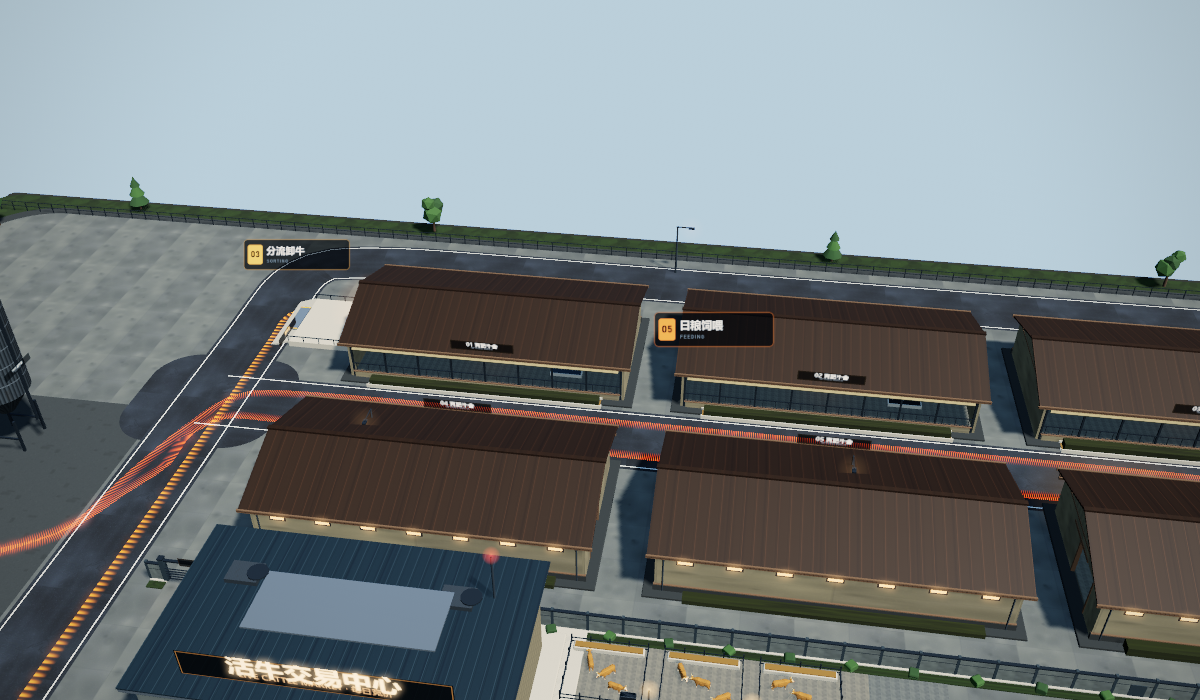
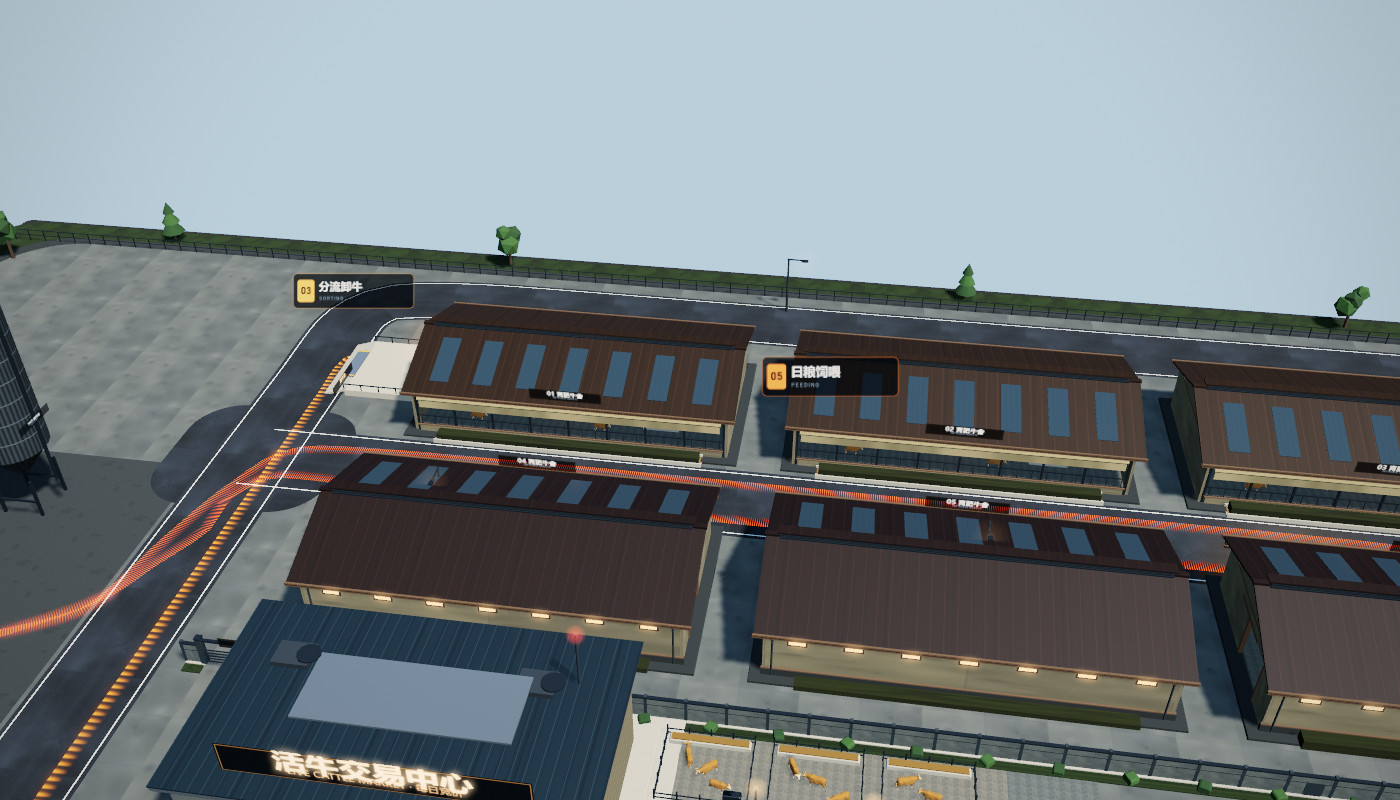
feat: 牛舍剖视 + 真实牧场方向（地面分区、草带、黄昏起跑、舍内屋架与垫料）
- 牛舍屋顶独立成组，默认收起（R 键 / 右上角按钮切换，?roof=1 保留屋顶）
- 舍内补屋架、中间走道、两侧垫料与牛，剖视时能看清栏内
- 场地分区：六栋牛舍所在条带铺压实土、日粮道压回混凝土，园区草带加宽
- 开户即从下午 15:24 起跑，很快进入黄昏；黄昏主光加强、曝光提高

diff --git a/js/buildings.js b/js/buildings.js
@@ -155,7 +155,8 @@
     };
   }
 
-  function buildBarn(kit, M, world, b) {
+  function buildBarn(kit, M, world, b, roofKit) {
+    const rk = roofKit || kit;
     const cx = b.cx, cz = b.cz, len = b.len, dep = b.dep;
     const mir = !!b.mirror;
     // 非几何挂件（标签/光片/光斑）不在 kit 里，需要自己按镜像位摆放
@@ -208,25 +209,25 @@
     const rise = ridge - eave;
     const slopeLen = Math.hypot(slopeH, rise) + 0.25;
     const ang = Math.atan2(rise, slopeH);
-    U.box(kit, roofMat, len + 1.8, 0.22, slopeLen, cx, (eave + ridge) / 2, cz + slopeH / 2, ang, 0, 0);
-    U.box(kit, roofMat, len + 1.8, 0.22, slopeLen, cx, (eave + ridge) / 2, cz - slopeH / 2, -ang, 0, 0);
-    U.box(kit, roofMat, len + 2.0, 0.3, 0.62, cx, ridge + 0.12, cz, 0, 0, 0);
+    U.box(rk, roofMat, len + 1.8, 0.22, slopeLen, cx, (eave + ridge) / 2, cz + slopeH / 2, ang, 0, 0);
+    U.box(rk, roofMat, len + 1.8, 0.22, slopeLen, cx, (eave + ridge) / 2, cz - slopeH / 2, -ang, 0, 0);
+    U.box(rk, roofMat, len + 2.0, 0.3, 0.62, cx, ridge + 0.12, cz, 0, 0, 0);
     // 屋脊通风器：抬高的百叶脊
-    U.box(kit, M.galv, len - 1.2, 0.62, 1.06, cx, ridge + 0.45, cz, 0, 0, 0, 0.06);
-    U.box(kit, M.steel, len - 1.0, 0.12, 1.22, cx, ridge + 0.13, cz);
+    U.box(rk, M.galv, len - 1.2, 0.62, 1.06, cx, ridge + 0.45, cz, 0, 0, 0, 0.06);
+    U.box(rk, M.steel, len - 1.0, 0.12, 1.22, cx, ridge + 0.13, cz);
     for (let s2 = 0; s2 < 3; s2++) {
-      U.box(kit, M.steel, len - 1.5, 0.07, 0.07, cx, ridge + 0.30 + s2 * 0.15, cz + 0.5);
-      U.box(kit, M.steel, len - 1.5, 0.07, 0.07, cx, ridge + 0.30 + s2 * 0.15, cz - 0.5);
+      U.box(rk, M.steel, len - 1.5, 0.07, 0.07, cx, ridge + 0.30 + s2 * 0.15, cz + 0.5);
+      U.box(rk, M.steel, len - 1.5, 0.07, 0.07, cx, ridge + 0.30 + s2 * 0.15, cz - 0.5);
     }
-    U.box(kit, roofMat, len - 0.5, 0.15, 1.28, cx, ridge + 0.80, cz);
+    U.box(rk, roofMat, len - 0.5, 0.15, 1.28, cx, ridge + 0.80, cz);
     // 采光带：南坡每跨一条
     for (let s3 = 0; s3 < 7; s3++) {
       const sx = cx - halfL + 3.4 + s3 * ((len - 6.8) / 6);
-      U.box(kit, M.skylight, 2.4, 0.1, slopeLen * 0.60, sx, (eave + ridge) / 2 + 0.12, cz + slopeH / 2, ang, 0, 0);
+      U.box(rk, M.skylight, 2.4, 0.1, slopeLen * 0.60, sx, (eave + ridge) / 2 + 0.12, cz + slopeH / 2, ang, 0, 0);
     }
     // 檐口
-    U.box(kit, M.timber, len + 2.0, 0.4, 0.22, cx, eave + 0.04, zf + o + 0.02);
-    U.box(kit, M.timber, len + 2.0, 0.4, 0.22, cx, eave + 0.04, zb - o - 0.02);
+    U.box(rk, M.timber, len + 2.0, 0.4, 0.22, cx, eave + 0.04, zf + o + 0.02);
+    U.box(rk, M.timber, len + 2.0, 0.4, 0.22, cx, eave + 0.04, zb - o - 0.02);
     // 檐下暖光槽
     U.box(kit, M.warmGlow, len - 2, 0.06, 0.1, cx, eave - 0.35, zf + 0.18, 0, 0, 0);
 
@@ -280,6 +281,17 @@
       kit.add(bulb, M.lamp, U.mat4(lx, 5.42, cz, 0, 0, 0));
       glowSprite(world, 0xffc180, 3.4, mx(lx), 5.35, cz, 0.4);
     }
+    // 舍内屋架：剖视时露出来的结构
+    for (let t = 0; t <= 6; t++) {
+      const tx = cx - halfL + 1.6 + t * ((len - 3.2) / 6);
+      U.box(kit, M.steel, 0.14, (ridge - eave) * 0.55, 0.14, tx, eave + (ridge - eave) * 0.28, cz, 0, 0, 0);
+      U.box(kit, M.steel, 0.14, 0.14, dep - 1.2, tx, eave + 0.1, cz);
+      U.box(kit, M.timber, 0.12, 0.16, dep - 1.4, tx, eave + 0.26, cz);
+    }
+    // 舍内地面：中间走道 + 两侧垫料
+    U.box(kit, M.penPad, len - 2.4, 0.06, 2.6, cx, 0.82, cz, 0, 0, 0);
+    U.box(kit, M.hay, len - 2.4, 0.05, 3.4, cx, 0.81, cz + 4.6);
+    U.box(kit, M.hay, len - 2.4, 0.05, 3.4, cx, 0.81, cz - 4.6);
     // 舍内顶部灯带（跟着夜色亮起）
     U.box(kit, M.warmGlow, len - 3.4, 0.1, 0.1, cx, eave - 0.55, cz + 2.2);
     U.box(kit, M.warmGlow, len - 3.4, 0.1, 0.1, cx, eave - 0.55, cz - 3.4);
@@ -1334,7 +1346,13 @@
     M.lamp.userData.noShadow = true;
     M.redBeam.userData.noShadow = true;
 
-    for (const b of L.barns) buildBarn(b.mirror ? mirrorKit(kit, b.cx, b.cz) : kit, M, world, b);
+    const roofKit = new U.Kit();
+    for (const b of L.barns) buildBarn(b.mirror ? mirrorKit(kit, b.cx, b.cz) : kit, M, world, b, roofKit);
+    const roofGroup = new THREE.Group();
+    roofGroup.name = 'barnRoofs';
+    roofKit.build(roofGroup, { name: 'barnRoofs' });
+    world.group.add(roofGroup);
+    world.barnRoofs = roofGroup;
     buildRamp(kit, M, world);
     buildWeigh(kit, M, world);
     buildGate(kit, M, world);

diff --git a/js/main.js b/js/main.js
@@ -15,11 +15,13 @@
   // 昼夜：一个循环 DAY_SECONDS 秒，从 05:00 走到 23:00（夜色的两端都是深夜，循环处看不出来）
   const DAY_SECONDS = 210;
   const HOUR_FROM = 5, HOUR_TO = 23;
+  const HOUR_START = 15.4;   // 从下午起跑，很快走到黄昏
   const hourFix = q.has('hour') ? Math.max(0, Math.min(24, parseFloat(q.get('hour')) || 0)) : null;
   function hourAt(t) {
     if (hourFix != null) return hourFix;
     const u = ((t / DAY_SECONDS) % 1 + 1) % 1;
-    return HOUR_FROM + u * (HOUR_TO - HOUR_FROM);
+    const span = HOUR_TO - HOUR_FROM;
+    return HOUR_FROM + ((HOUR_START - HOUR_FROM + u * span) % span);
   }
 
   // 运行期错误落到标题里，便于无头截图排查
@@ -89,7 +91,14 @@
     if (pan.length === 2 && isFinite(pan[0]) && isFinite(pan[1])) rig.panTo(pan[0], pan[1], true);
     pipe = FL.createPipeline(renderer, { enabled: fxOn });
     day = FL.createDay(scene, world, sky, pipe);
-    ui = uiOn ? FL.createUI(fleet, rig) : { update: function () {}, reveal: function () {} };
+    ui = uiOn ? FL.createUI(fleet, rig) : { update: function () {}, reveal: function () {}, setCutaway: function () {}, onCutaway: function () {} };
+    // 剖视：默认收起牛舍屋顶（?roof=1 保留屋顶），与 UI 是否开启无关
+    const cutOn = q.get('roof') !== '1';
+    if (world.barnRoofs) world.barnRoofs.visible = !cutOn;
+    if (ui.onCutaway) {
+      ui.onCutaway(function (on) { if (world.barnRoofs) world.barnRoofs.visible = !on; });
+      ui.setCutaway(cutOn);
+    }
   } catch (err) {
     fail(err);
     return;

diff --git a/js/world.js b/js/world.js
@@ -158,6 +158,7 @@
     M.tarp = S({ map: T.tarp, color: 0xb2ad9a, roughness: 0.85 });
     M.film = S({ map: T.tarp, color: 0xd9d7cd, roughness: 0.55 });
     M.dirt = S({ color: 0x2b251a, roughness: 1 });
+    M.compact = S({ map: T.concrete, color: 0x8f8069, roughness: 1 });
     M.water = S({ color: 0x18343c, roughness: 0.05, metalness: 0.9 });
     M.red = S({ color: 0x8d3a30, roughness: 0.55 });
     M.blue = S({ color: 0x2e4d63, roughness: 0.55 });
@@ -187,10 +188,16 @@
     // 草皮
     flatRound(kit, M.grass, 252, 192, 0, cz, 0.04, 6, 10);
     // 场地
-    flatRound(kit, M.apronEdge, 244, 180, 0, -4, 0.16, 13, 12);
-    flatRound(kit, M.apron, 240, 176, 0, -4, 0.2, 12, 12);
+    flatRound(kit, M.apronEdge, 232, 168, 0, -4, 0.16, 13, 12);
+    flatRound(kit, M.apron, 228, 164, 0, -4, 0.2, 12, 12);
     // 场内水泥分区（配料场院）
     flatRound(kit, M.yard, 56, 74, -92, -4, 0.215, 5, 9);
+    // 生产区：六栋牛舍下面铺压实土
+    flatRound(kit, M.compact, 156, 76, 24, -46, 0.206, 8, 9);
+    // 日粮道（两排牛舍之间）压回混凝土
+    flatRound(kit, M.apron, 152, 9.0, 24, -44, 0.209, 3.6, 8);
+    // 装车区前场土带
+    flatRound(kit, M.compact, 34, 22, 100, -52, 0.207, 6, 8);
     // 出场装车区硬化
     flatRound(kit, M.yard, 26, 26, 104, -69, 0.215, 4, 9);
   }

diff --git a/js/ui.js b/js/ui.js
@@ -64,6 +64,25 @@
       viewEls.set(cam.id, btn);
     });
 
+    /* 剖视开关：收起牛舍屋顶，露出舍内 */
+    const cutState = { on: true, onChange: null };
+    const cutBtn = document.createElement('button');
+    cutBtn.type = 'button';
+    cutBtn.className = 'cut';
+    cutBtn.title = '收起 / 放下牛舍屋顶（快捷键 R）';
+    cutBtn.innerHTML = '<span class="k">R</span><span></span>';
+    cutBtn.querySelector('span:last-child').textContent = '剖视';
+    function applyCut(on) {
+      cutState.on = on;
+      cutBtn.classList.toggle('on', on);
+      if (cutState.onChange) cutState.onChange(on);
+    }
+    cutBtn.addEventListener('click', function () { applyCut(!cutState.on); });
+    viewsEl.appendChild(cutBtn);
+    root.addEventListener('keydown', function (e) {
+      if (e.key === 'r' || e.key === 'R') applyCut(!cutState.on);
+    });
+
     function setActiveView(id) {
       for (const [key, el] of viewEls) el.classList.toggle('on', key === id);
     }
@@ -99,6 +118,8 @@
     }
 
     const api = {
+      setCutaway: applyCut,
+      onCutaway: function (fn) { cutState.onChange = fn; },
       update: function (hour, stages) {
         const key = stages ? Array.from(stages).sort().join('|') : '';
         if (key !== lastKey) {

diff --git a/js/daycycle.js b/js/daycycle.js
@@ -127,7 +127,7 @@
       }
       key.position.copy(sunPos).lerp(moonPos, nightF);
       key.color.copy(blend(P.night.key, P.dusk.key, dayKey, nightF, dayF));
-      key.intensity = 6.4 * nightF + (1 - nightF) * (dayI * dayF + 1.7 * duskF);
+      key.intensity = 6.4 * nightF + (1 - nightF) * (dayI * dayF + 2.6 * duskF);
 
       /* ---- 环境光 / 暖补光 / 侧补光 ---- */
       hemi.color.copy(blend(P.night.sky, P.dusk.sky, P.day.sky, nightF, dayF));
@@ -154,7 +154,7 @@
         scene.fog.color.copy(blend(P.night.fog, P.dusk.fog, P.day.fog, nightF, dayF));
         scene.fog.density = 0.0016 * nightF + 0.0009 * duskF + 0.00045 * dayF;
       }
-      if (pipe && pipe.setExposure) pipe.setExposure(1.36 * nightF + 1.10 * duskF + 1.02 * dayF);
+      if (pipe && pipe.setExposure) pipe.setExposure(1.36 * nightF + 1.18 * duskF + 1.06 * dayF);
 
       // 供 UI 判断时段
       return { night: nightF, dusk: duskF, day: dayF };

diff --git a/js/layout.js b/js/layout.js
@@ -261,7 +261,7 @@
     ],
 
     cameras: [
-      { id: 'overview', label: '全览', target: [-2, 1, -9], theta: 0.66, phi: 0.72, zoom: 0.86 },
+      { id: 'overview', label: '全览', target: [-2, 1, -12], theta: 0.66, phi: 0.78, zoom: 0.93 },
       { id: 'gate', label: '大门', target: [-104, 7, 56], theta: -1.15, phi: 0.95, zoom: 2.8 },
       { id: 'weigh', label: '地磅', target: [-84, 5, 56], theta: 0.30, phi: 0.92, zoom: 3.0 },
       { id: 'tmr', label: '配料', target: [-96, 9, -14], theta: 0.62, phi: 0.92, zoom: 2.3 },
